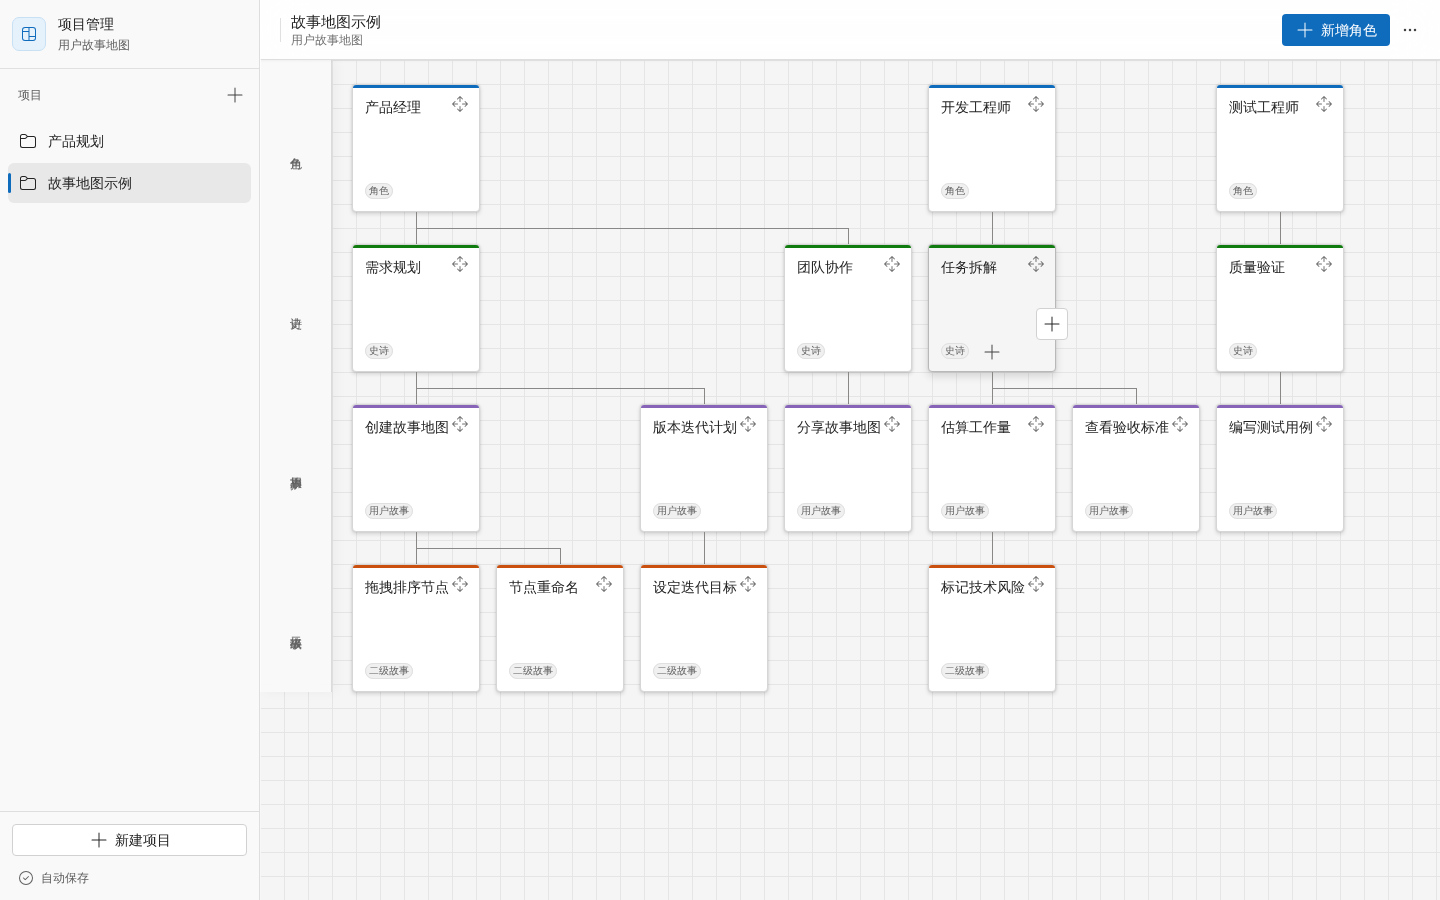
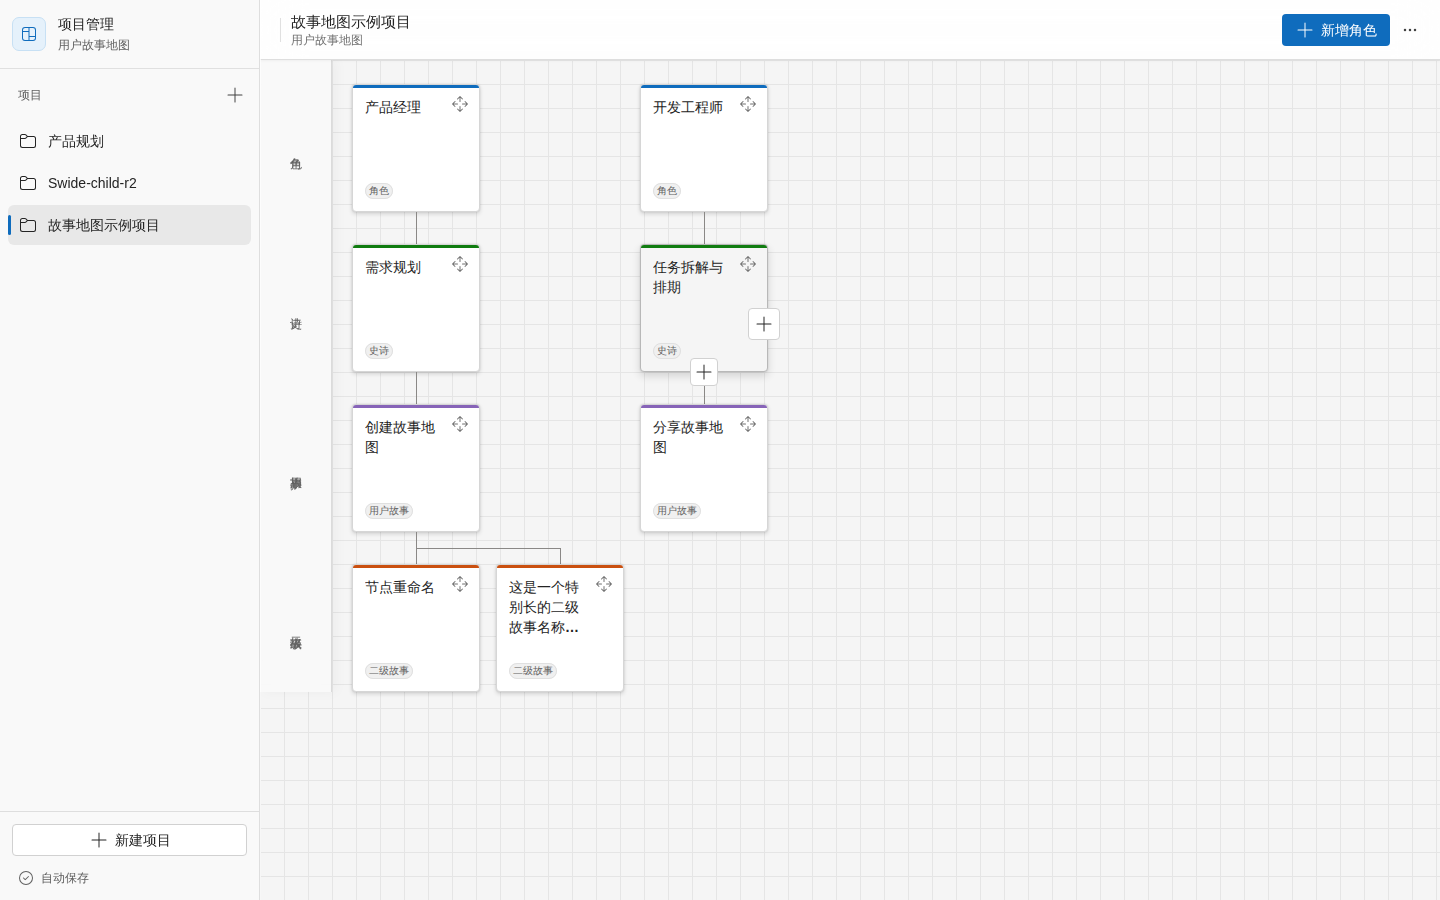
fix: opaque mobile sidebar, title/drag-handle overlap and add-child placement
- Make the project sidebar background opaque so the map no longer shows
  through the slide-out navigation on narrow screens.
- Reserve room for the drag handle in node titles and make the three-line
  clamp actually apply; Fluent Text's atomic display/overflow classes were
  overriding it, letting long titles spill over the kind badge.
- Move the add-child button to the centre of the card's bottom edge, on the
  outgoing connector, so it no longer covers the kind badge (it is always
  visible on touch devices).
- Add regression tests, refresh affected screenshots and update page docs.

Claude-Session: https://claude.ai/code/session_014bUhfndeDk2i1QWtMYPKaQ

diff --git a/frontend/src/layout-styles.test.ts b/frontend/src/layout-styles.test.ts
@@ -19,3 +19,21 @@ test('the sidebar divider does not stretch in the column layout', () => {
   assert.match(appSource, /<Divider className="sidebar-divider" \/>/)
   assert.match(styles, /\.project-sidebar > \.sidebar-divider\s*\{[^}]*flex:\s*none;/)
 })
+
+test('the sidebar is opaque so the map does not show through the narrow-screen overlay', () => {
+  const sidebar = styles.match(/\n\.project-sidebar\s*\{([^}]*)\}/)?.[1] ?? ''
+  assert.match(sidebar, /background:\s*#[0-9a-f]{6};/i)
+  assert.doesNotMatch(sidebar, /backdrop-filter|background:\s*rgba/)
+})
+
+test('node titles leave room for the drag handle and clamp to three lines', () => {
+  const title = styles.match(/\.story-node > \.story-node-title\s*\{([^}]*)\}/)?.[1] ?? ''
+  assert.match(title, /padding-right:\s*22px;/)
+  // Fluent Text atomic classes override display/overflow unless the selector is more specific.
+  assert.match(title, /display:\s*-webkit-box;[\s\S]*overflow:\s*hidden;[\s\S]*-webkit-line-clamp:\s*3;/)
+})
+
+test('the add-child control sits on the card edge instead of over the kind badge', () => {
+  assert.match(styles, /\.node-add-action\s*\{[^}]*bottom:\s*-14px;/)
+  assert.match(appSource, /appearance="secondary"\s+size="small"\s+icon=\{<Add20Regular \/>\}\s+className="node-add-action"/)
+})

diff --git a/frontend/src/App.css b/frontend/src/App.css
@@ -24,9 +24,9 @@
   min-width: 0;
   flex-direction: column;
   border-right: 1px solid #dedede;
-  background: rgba(249, 249, 249, 0.94);
+  /* Opaque: on narrow screens the sidebar slides over the map, which would show through. */
+  background: #f9f9f9;
   box-shadow: 1px 0 0 rgba(255, 255, 255, 0.7);
-  backdrop-filter: blur(24px) saturate(140%);
 }
 
 .sidebar-brand {
@@ -440,9 +440,13 @@
   box-shadow: 0 0 0 2px #c7e0f4, 0 6px 16px rgba(0, 0, 0, 0.08);
 }
 
-.story-node-title {
+/* Fluent Text injects display/overflow atomic classes; the child selector outranks them. */
+.story-node > .story-node-title {
   display: -webkit-box;
+  box-sizing: border-box;
   max-width: 100%;
+  /* Keep text clear of the drag handle in the top-right corner. */
+  padding-right: 22px;
   overflow: hidden;
   line-height: 20px;
   overflow-wrap: anywhere;
@@ -450,10 +454,11 @@
   -webkit-line-clamp: 3;
 }
 
+/* Straddles the card's bottom edge on the outgoing connector, clear of the kind badge. */
 .node-add-action {
   position: absolute !important;
   z-index: 10;
-  bottom: 6px;
+  bottom: -14px;
   left: 50%;
   min-width: 28px !important;
   width: 28px;

diff --git a/frontend/src/App.tsx b/frontend/src/App.tsx
@@ -261,7 +261,7 @@ function NodeCard({
       {onAdd && (
         <Button
           type="button"
-          appearance="subtle"
+          appearance="secondary"
           size="small"
           icon={<Add20Regular />}
           className="node-add-action"

diff --git a/docs/pages/story-map.md b/docs/pages/story-map.md
@@ -10,9 +10,9 @@
 
 ## 页面布局
 
-1. **项目侧栏**：采用 Windows 11 风格的半透明导航面板，项目列表紧接品牌区展示全部项目、当前项目、自动保存状态和新建项目入口；窄屏时收起为带遮罩的滑出导航。
+1. **项目侧栏**：采用 Windows 11 风格的不透明导航面板（窄屏滑出时不透出背后的地图），项目列表紧接品牌区展示全部项目、当前项目、自动保存状态和新建项目入口；窄屏时收起为带遮罩的滑出导航。
 2. **页面命令栏**：展示当前项目名称、页面类型、新增角色主操作和项目菜单；窄屏增加项目导航按钮。
-3. **故事地图**：左侧固定显示四个层级标签，右侧按树状关系横向展开节点；节点使用 Fluent 卡片、状态徽标和分层色带。每个有下一级的节点底部提供新增子节点按钮，悬停节点时在其右侧展开同级新增按钮。
+3. **故事地图**：左侧固定显示四个层级标签，右侧按树状关系横向展开节点；节点使用 Fluent 卡片、状态徽标和分层色带。节点标题右侧为拖拽手柄预留空间，过长时最多显示三行并以省略号截断；每个有下一级的节点在卡片底边中央、出线连接处提供新增子节点按钮，不遮挡类型徽标，悬停节点时在其右侧展开同级新增按钮。
 4. **节点编辑面板**：点击节点后打开 Fluent 右侧抽屉，可修改名称、查看归属或删除节点。
 5. **对话框与反馈**：使用 Fluent 对话框、表单、菜单、加载骨架和消息条处理新增、重命名、删除、加载与失败反馈；对话框和抽屉打开时，背后的页面在半透明遮罩下仍然可见。由某个节点或同级行发起新增时，父节点由当前上下文确定，不再要求重复选择。
 
@@ -114,6 +114,7 @@
 
 | 日期 | 变更 | 关联页面文件 |
 | --- | --- | --- |
+| 2026-10-02 | 侧栏改为不透明背景，修复窄屏滑出导航透出地图；节点标题为拖拽手柄预留右侧空间，并修复三行截断被 Fluent 样式覆盖而失效的问题；新增子节点按钮移到卡片底边中央，不再遮挡类型徽标。 | `frontend/src/App.tsx`、`frontend/src/App.css`、`frontend/src/layout-styles.test.ts` |
 | 2026-09-21 | 同级节点拖拽改为只按水平中心距离判定，忽略上下位置，并保留指针直接进入合法上级节点时的跨层调整，避免目标反复切换导致抽动。 | `frontend/src/App.tsx`、`frontend/src/drag-collision.ts`、`frontend/src/drag-collision.test.ts` |
 | 2026-09-21 | 修复节点加号悬停时页面闪烁；移除页面内剩余的浮层提示包装，并检查侧栏新建、移动端导航、关闭、项目菜单等纯图标按钮，统一保留直接按钮节点、辅助名称和原生提示。 | `frontend/src/App.tsx`、`frontend/src/drag-handle-hover.test.ts` |
 | 2026-09-21 | 修复拖拽手柄悬停时页面闪烁；激活器改为稳定的直接按钮并保留原生提示，避免悬浮门户反复挂载。 | `frontend/src/App.tsx`、`frontend/src/drag-handle-hover.test.ts` |

diff --git a/docs/screenshots/README.md b/docs/screenshots/README.md
@@ -32,7 +32,7 @@
 | `02-empty-project.png` | 空项目（暂无角色） |
 | `03-create-role-dialog.png` | 新增角色对话框 |
 | `04-story-map.png` | 完整四层故事地图 |
-| `05-node-hover-sibling-add.png` | 悬停节点显示同级新增按钮 |
+| `05-node-hover-sibling-add.png` | 悬停节点显示同级新增按钮与底边子节点新增按钮（含长标题换行） |
 | `06-node-edit-drawer.png` | 节点编辑抽屉 |
 | `07-node-delete-confirm.png` | 删除确认 |
 | `08-project-menu.png` | 项目操作菜单 |
@@ -40,8 +40,8 @@
 | `10-dragging-node.png` | 拖拽中（受影响连线为虚线） |
 | `11-error-message.png` | 请求失败提示 |
 | `12-loading-skeleton.png` | 加载骨架屏 |
-| `13-mobile-story-map.png` | 移动端故事地图 |
-| `14-mobile-sidebar.png` | 移动端项目导航 |
+| `13-mobile-story-map.png` | 移动端故事地图（新增按钮不遮挡徽标） |
+| `14-mobile-sidebar.png` | 移动端项目导航（不透明背景） |
 | `15-no-projects.png` | 无项目空状态 |
 | `16-drag-past-wide-branch.png` | 修复后：拖动越过宽分支时卡片跟随指针，目标为左侧同级 |
 
@@ -59,3 +59,11 @@
    - 修复：给它加上 `.project-sidebar > .sidebar-divider { flex: none; }`。这里需要更高的选择器优先级，才能覆盖 Fluent 后注入的原子类。
 
 验证：前端单元测试 27/27、build、lint（3 条既有警告）、后端 `go test ./...`、`git diff --check` 均通过；Chromium 端到端走查 17/17 通过；7 种树形下的真实拖拽场景结果全部符合预期，包括有意的跨父节点拖拽。
+
+## 界面细节修复（第二轮）
+
+4. **移动端侧栏透出背后的地图**：侧栏背景为 94% 不透明度加 `backdrop-filter` 模糊，窄屏滑出时地图内容透过侧栏可见。改为不透明的 `#f9f9f9`。
+5. **长标题压住拖拽图标**：标题宽度占满卡片，与右上角拖拽手柄重叠。标题右侧预留 22px；同时发现 `-webkit-line-clamp: 3` 一直被 Fluent `Text` 的原子类（`display: block`、`overflow: visible`）覆盖，超长标题会溢出到徽标上，改用 `.story-node > .story-node-title` 提高优先级。
+6. **新增子节点按钮遮挡类型徽标**：按钮原在卡片内部底部居中，触控设备上常驻显示，压住“用户故事”等徽标。移到卡片底边中央（跨在出线连接处），改为带底色的 secondary 样式。
+
+验证：前端单元测试 30/30（新增 3 个回归测试）、build、lint（3 条既有警告）、`git diff --check` 通过；Chromium 桌面与移动端截图复核，并实际点击底边“新增子节点”按钮确认可用。
